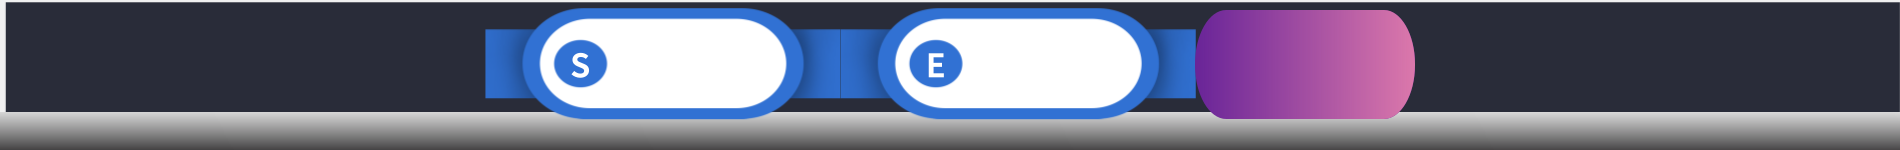
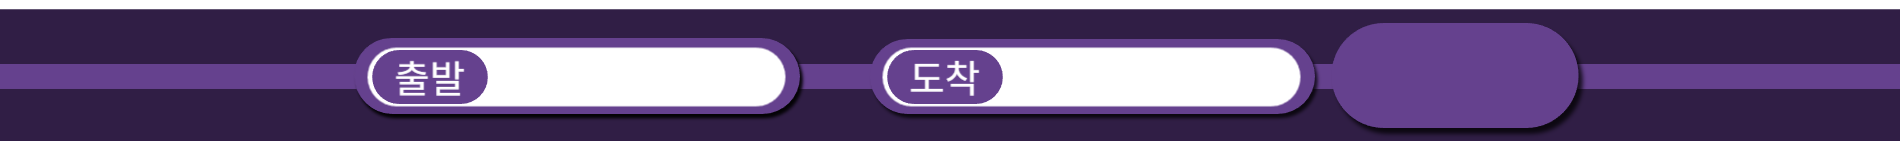
v0.12
1. 디자인 개선

diff --git a/subway.py b/subway.py
@@ -82,7 +82,7 @@ for i in range(len(transfer_df)):
 # tkinter 창 생성
 root = tk.Tk()
 root.title("지하철 노선도")
-
+root.configure(bg='#000000')
 # 입력기 관련 라이브러리 불러옴
 imm32 = ctypes.WinDLL('imm32')
 
@@ -106,13 +106,13 @@ trans_image_path = r"image/transportation.png"
 bu_image_path = r"image/transportation_bu.png"
 bex_image_path = r"image/transportation_bex.png"
 here_path = r"image/here.png"
-added_path = r"image/added.png"
+top_banner_path = r"image/bar.png"
+banner_path = r"image/banner.png"
 search_path = r"image/검색.png"
 reset_path = r"image/reset.png"
 
 #출발, 도착 아이콘 위치
-s_x_offset = 20
-x_offset = 5
+x_offset = 10
 y_offset = 50
 
 # 캔버스 사이즈
@@ -132,7 +132,8 @@ transfer_image = load_image(trans_image_path, train_size)  # 환승역 이미지
 transfer_image_bu = load_image(bu_image_path, (40, 20))  # 환승역 이미지 로드
 transfer_image_bex = load_image(bex_image_path, (20, 40))  # 환승역 이미지 로드
 here_image = load_image(here_path, train_size)
-added_image = load_image(added_path, canvas_size)
+top_banner_image = load_image(top_banner_path, (1920,150))
+banner_image = load_image(banner_path, canvas_size)
 search_image = load_image(search_path, search_reset)
 reset_image = load_image(reset_path, search_reset)
 
@@ -174,34 +175,31 @@ station_list = list(line_info.keys())
 
 # 프레임 시작 -----------------------------------------------------------------------
 # 상단 프레임 1
-controls_frame = tk.Frame(root)
-controls_frame.pack(side=tk.TOP, fill=tk.X, padx=10, pady=10)
-center_frame = tk.Frame(controls_frame)
-center_frame.pack(side=tk.TOP, fill=tk.X)
+# controls_frame을 캔버스로 대체하여 배경 이미지 설정
+controls_frame = tk.Canvas(root, width=top_banner_image.width(), height=top_banner_image.height(), highlightthickness=0)  # highlightthickness로 캔버스 테두리 제거
+controls_frame.pack(side=tk.TOP, fill=tk.X, padx=0, pady=0)
 
-# 왼쪽 공백
-Empty_label = tk.Label(center_frame, text="\t\t\t\t\t\t\t\t")
-Empty_label.pack(side=tk.LEFT)
-# 출발지 입력창
-start_label = tk.Label(center_frame, text="출발역:", font=("Helvetica", 16))
-start_label.pack(side=tk.LEFT, padx=5, pady=10)
-start_entry = tk.Entry(center_frame, font=("Helvetica", 15))
-start_entry.pack(side=tk.LEFT, padx=5, pady=10)
-Empty_label = tk.Label(center_frame, text="\t")
-Empty_label.pack(side=tk.LEFT)
-# 도착지 입력창
-end_label = tk.Label(center_frame, text="도착역:", font=("Helvetica", 16))
-end_label.pack(side=tk.LEFT, padx=5, pady=10)
-end_entry = tk.Entry(center_frame, font=("Helvetica", 15))
-end_entry.pack(side=tk.LEFT, padx=5, pady=10)
+# 캔버스에 이미지 배경 설정
+controls_frame.create_image(0, 0, anchor=tk.NW, image=top_banner_image)
 
-# 검색 버튼 (이미지로 대체)
-set_button = tk.Button(center_frame, image=search_image, command=set_stations)
-set_button.pack(side=tk.LEFT, padx=5, pady=20)
+# 이미지 객체를 계속 참조하기 위해 저장
+controls_frame.image = top_banner_image
 
-# 리셋 버튼 (이미지로 대체)
-reset_button = tk.Button(center_frame, image=reset_image, command=reset_selection)
-reset_button.pack(side=tk.LEFT, padx=5, pady=20)
+# 출발지 입력창 (절대 좌표로 배치)
+start_entry = tk.Entry(controls_frame, font=("Nanum Gothic", 15), bd=0, highlightthickness=0)  # 테두리와 하이라이트 제거
+start_entry.place(x=520, y=68)
+
+# 도착지 입력창 (절대 좌표로 배치)
+end_entry = tk.Entry(controls_frame, font=("Nanum Gothic", 15), bd=0, highlightthickness=0)  # 테두리 제거
+end_entry.place(x=1040, y=68)
+
+# 검색 버튼 (이미지로 대체, 절대 좌표로 배치)
+set_button = tk.Button(controls_frame, image=search_image, bd=0, highlightthickness=0,bg="#65418E", command=set_stations)  # 버튼 테두리 제거
+set_button.place(x=1400, y=53)
+
+# 리셋 버튼 (이미지로 대체, 절대 좌표로 배치)
+reset_button = tk.Button(controls_frame, image=reset_image, bd=0, highlightthickness=0, bg="#65418E", command=reset_selection)  # 버튼 테두리 제거
+reset_button.place(x=1470, y=53)
 
 # 검색 자동완성 박스
 search_frame = tk.Frame(root)
@@ -212,35 +210,34 @@ search_scrollbar.pack(side=tk.RIGHT, fill=tk.Y)
 search_listbox.config(yscrollcommand=search_scrollbar.set)
 search_frame.pack_forget()
 
+# 포커스 인/아웃 시 검색 자동완성 리스트박스 보여주기
 start_entry.bind("<FocusIn>", lambda event: entry_focus_in(start_entry, search_listbox))
 end_entry.bind("<FocusIn>", lambda event: entry_focus_in(end_entry, search_listbox))
 
 # 상단 프레임 2
-button_frame = tk.Frame(root)
+button_frame = tk.Frame(root, bg="white")
 button_frame.pack(side=tk.TOP, fill=tk.X)
 
 # 호선별 버튼을 위한 프레임 설정
-line_label = tk.Label(button_frame, text="노선정보 ▶ ", fg="blue")
+line_label = tk.Label(button_frame, text="노선정보 ▶ ", fg="blue", bg="white")
 line_label.pack(side=tk.LEFT, padx=5)
-line_buttons_frame = tk.Frame(button_frame)
+line_buttons_frame = tk.Frame(button_frame, bg="white")
 line_buttons_frame.pack(side=tk.LEFT, fill=tk.X, padx=5)
 
-
 # 편의시설 버튼 프레임 설정
-category_btn_frame = tk.Frame(button_frame)
+category_btn_frame = tk.Frame(button_frame, bg="white")
 category_btn_frame.pack(side=tk.RIGHT, fill=tk.X, padx=5)
-category_label = tk.Label(button_frame, text="편의시설 ▶ ", fg="blue")
+category_label = tk.Label(button_frame, text="편의시설 ▶ ", fg="blue", bg="white")
 category_label.pack(side=tk.RIGHT, padx=5)
 
-# 우측 프레임
-info_frame = tk.Frame(root, padx=10, pady=10, bg='lightgrey', width=300)
-info_frame.pack(side=tk.RIGHT, fill=tk.Y)
 
-details_label = tk.Label(info_frame, text="경로 세부정보", font=("Arial", 12, "bold"), bg='lightgrey')
-details_label.pack(pady=(0, 10))
+# 우측 캔버스 프레임
+info_canvas = tk.Canvas(root, width=300, bg='#000000')
+info_canvas.pack(side=tk.RIGHT, fill=tk.Y)
+#채워넣을곳
 
-details_text = tk.Text(info_frame, width=40, height=20, wrap=tk.WORD, padx=5, pady=5)
-details_text.pack(expand=True)
+
+
 
 ### 하단프레임 ###
 bottom_frame= tk.Frame(root)
@@ -253,15 +250,15 @@ time_label = tk.Label(bottom_frame, text="총 여행 시간: 0 분")
 time_label.pack(side=tk.LEFT, padx=5)
 
 # 캔버스 생성
-canvas = tk.Canvas(root, width=canvas_x, height=canvas_y)
+canvas = tk.Canvas(root, width=canvas_x+20, height=canvas_y,bg='#000000')
 canvas.pack(fill=tk.BOTH, expand=True)
 # 프레임 끝-----------------------------------------------------------------------
 
 # 이미지 로드 및 추가
-if added_image:
-    canvas.create_image(0, 0, anchor=tk.NW, image=added_image)
-    canvas.image = added_image  # 이미지 참조 유지
-    print("Image loaded and added to canvas.")
+if banner_image:
+    canvas.create_image(0, 0, anchor=tk.NW, image=banner_image)
+    canvas.image = banner_image  # 이미지 참조 유지
+    print("Image loaded and banner to canvas.")
 else:
     print("Failed to load image.")
 
@@ -581,7 +578,7 @@ def draw_shortest_path(start, end):
     for station in path:
         x, y = station_positions[station]      
         if station == start:
-            add_image(x-s_x_offset, y-y_offset, start_image)
+            add_image(x-x_offset, y-y_offset, start_image)
         elif station == end:
             add_image(x-x_offset, y-y_offset, end_image)
 
@@ -668,7 +665,7 @@ for line, path in line_images_paths.items():
 # 이미지 버튼
 for line, img in line_images.items():
     # 이미지 버튼 생성
-    button = tk.Label(line_buttons_frame, image=img)
+    button = tk.Label(line_buttons_frame, image=img, bg="white")
     button.pack(side=tk.LEFT, padx=0)
     
         # 이미지 클릭 시 함수 호출
@@ -776,7 +773,7 @@ def create_facility_buttons():
     for facility, img in facility_images.items():
         var = tk.IntVar()  # 체크박스의 상태를 관리할 변수
         facility_vars[facility] = var
-        button = tk.Label(category_btn_frame, image=img)
+        button = tk.Label(category_btn_frame, image=img, bg="white")
         button.image = img  # 유지되도록 참조를 유지합니다.
         button.pack(side=tk.LEFT, padx=5, pady=2)
 
